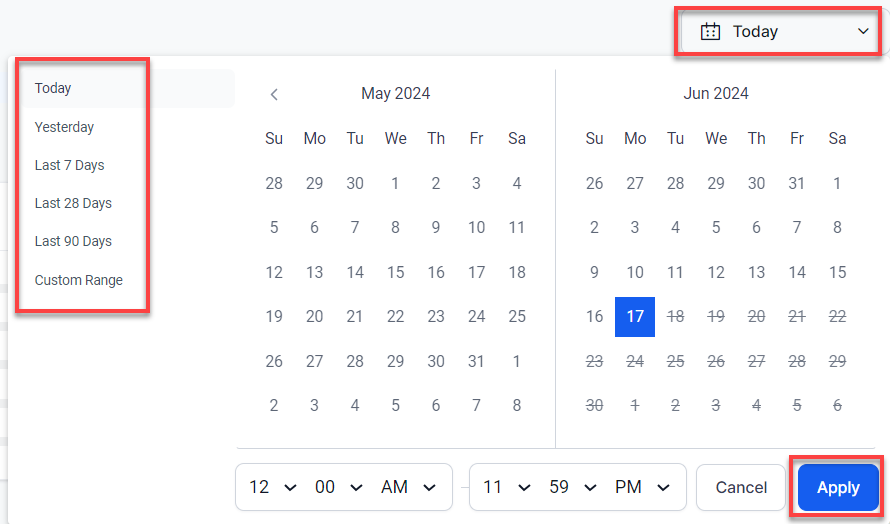
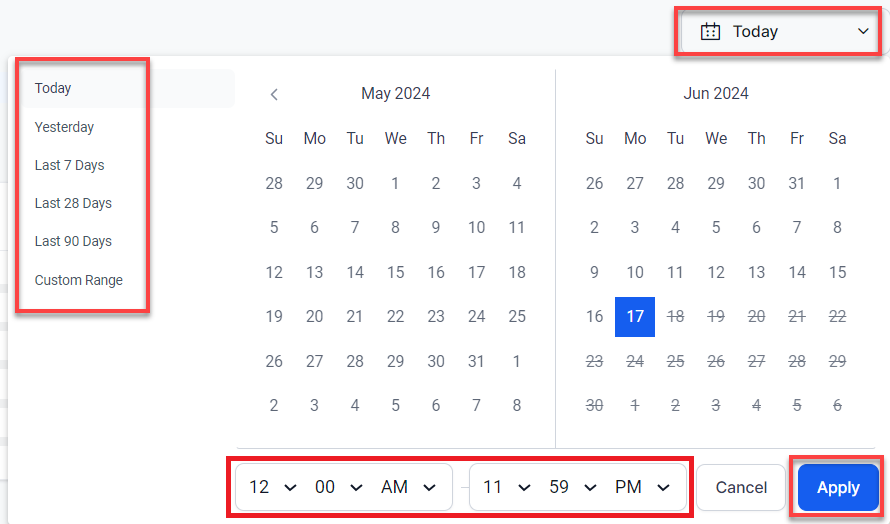
clear filter added

Changed region(s): [[0.2427, 0.855, 0.7888, 1.0]]

diff --git a/docs/xo/quality-management/analyze/dashboard.md b/docs/xo/quality-management/analyze/dashboard.md
@@ -37,13 +37,13 @@ When any of the language filters are selected, the following widget metrics are 
 
 * Performance Monitor (Evaluation Form) 
 
-### Date Range
+### Date and Time Range
 
-You can filter data based on a selected date range.
-To filter by date range, click the Calendar drop-down list displayed in the top-right corner of your Dashboard page. Select a date range from the list, and click **Apply**.  
-<img src="../dashboard/images/calendar drop-down.png" alt="Date Range calendar" title="Date Range calendar" style="border: 1px solid gray; zoom:100%;">
+You can filter data based on a selected date and time range.
+To filter a range, click the Calendar drop-down list displayed in the top-right corner of your Dashboard page. Select a date and time range from the list, and click **Apply**.  
+<img src="../dashboard/images/date-range-filter.png" alt="Date Range calendar" title="Date Range calendar" style="border: 1px solid gray; zoom:100%;">
 
-This allows you to filter all agent interaction data by selecting the following date ranges:
+This allows you to filter all agent interaction data by selecting the following date with time ranges:
 
 * **Today**: All interaction data for this day, in the agent’s time zone.
 * **Yesterday**: All interaction data of the previous day, in the agent’s time zone.

diff --git a/docs/xo/quality-management/analyze/conversation-intelligence.md b/docs/xo/quality-management/analyze/conversation-intelligence.md
@@ -102,11 +102,17 @@ Steps to edit a filter:
 2. Make the necessary changes, and click **Save & Apply**.  
     <img src="../conversation-intelligence/images/save-edit-filter.png" alt="Save Edited Filter" title="Save Edited Filter" style="border: 1px solid gray; zoom:90%;">
 
-    A confirmation is displayed.
+    A successful confirmation message is displayed.
 
-## Time Selection
+## Clear Filters
 
-In this section, you can filter data by time range. By default, data is displayed for the current day (Today). Select a time range, and click **Apply**.  
+This filter displays only the analytics data for the current day's agent performance, customer experience, and interaction details. When applied, it removes all previously selected date ranges and focuses solely on today's data.
+
+<img src="../conversation-intelligence/images/clear-filter.png" alt="Clear Filters" title="Clear Filters" style="border: 1px solid gray; zoom:80%;">
+
+## Date and Time Range Selection
+
+In this section, you can filter data by date and time range. By default, data is displayed for the current day (Today). Select a specified date and time range, and click **Apply**.  
 
 <img src="../conversation-intelligence/images/time-duration.png" alt="Time Selection" title="Time Selection" style="border: 1px solid gray; zoom:80%;">
 
